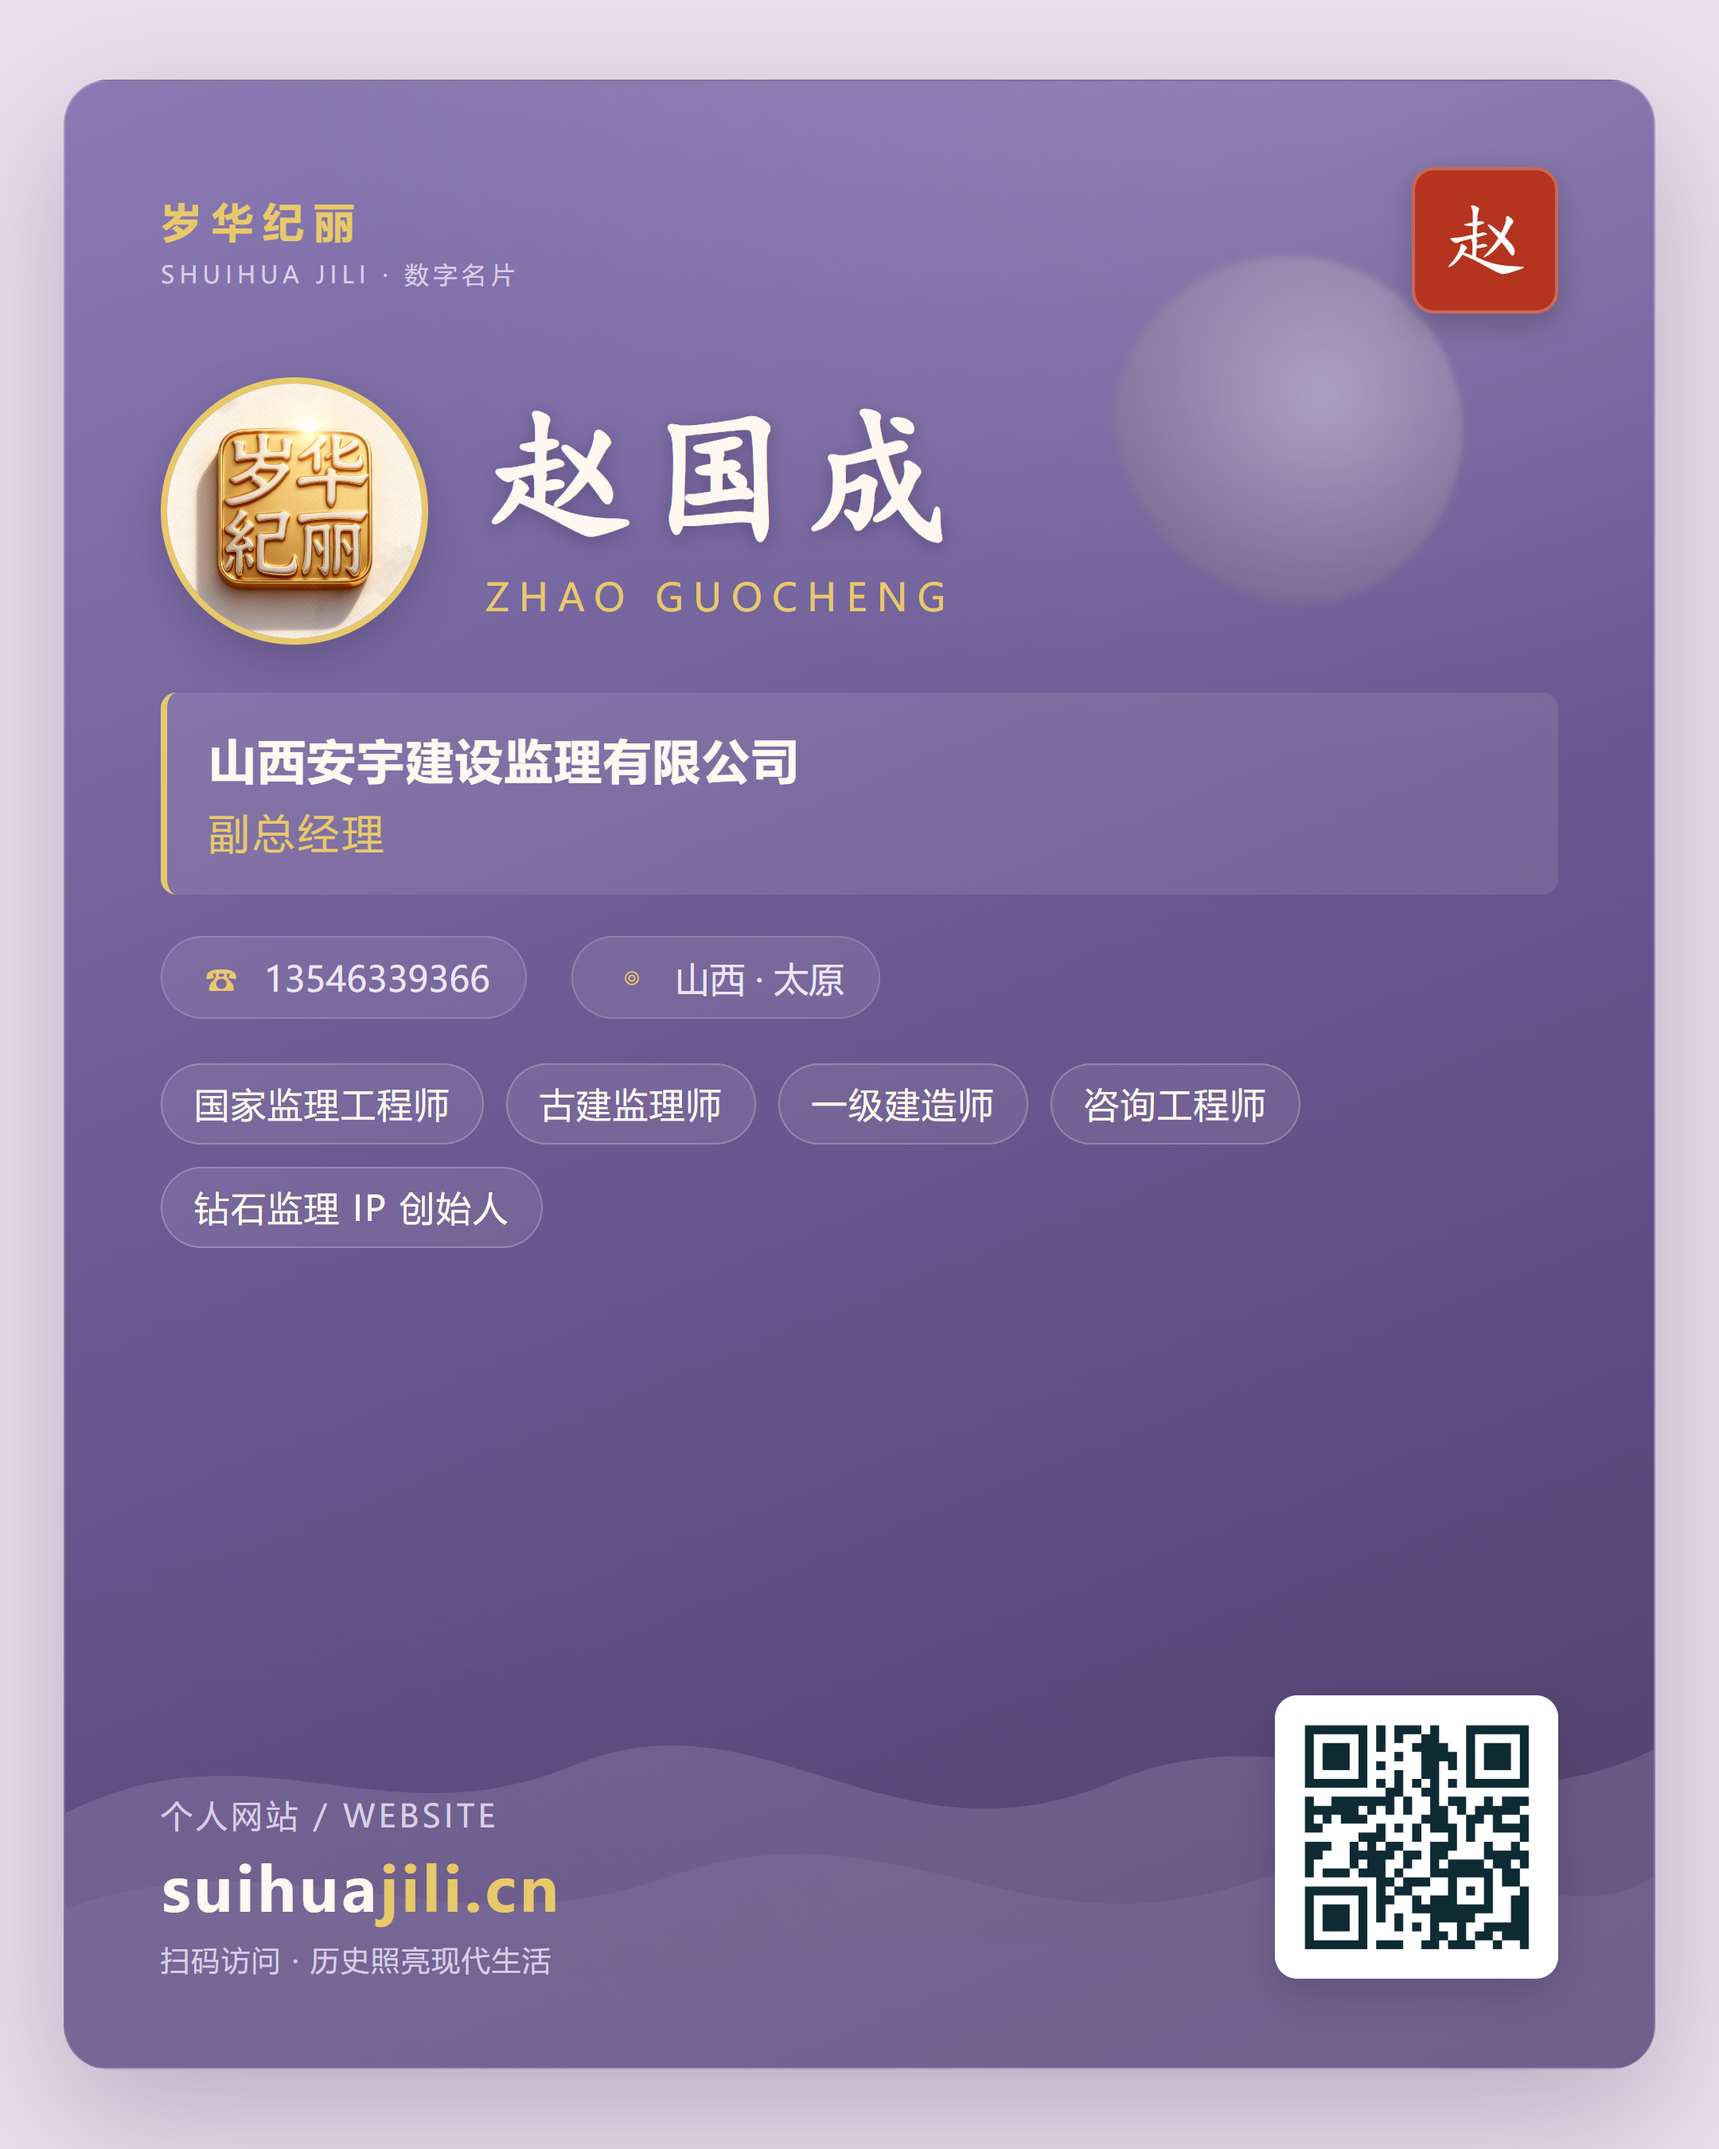
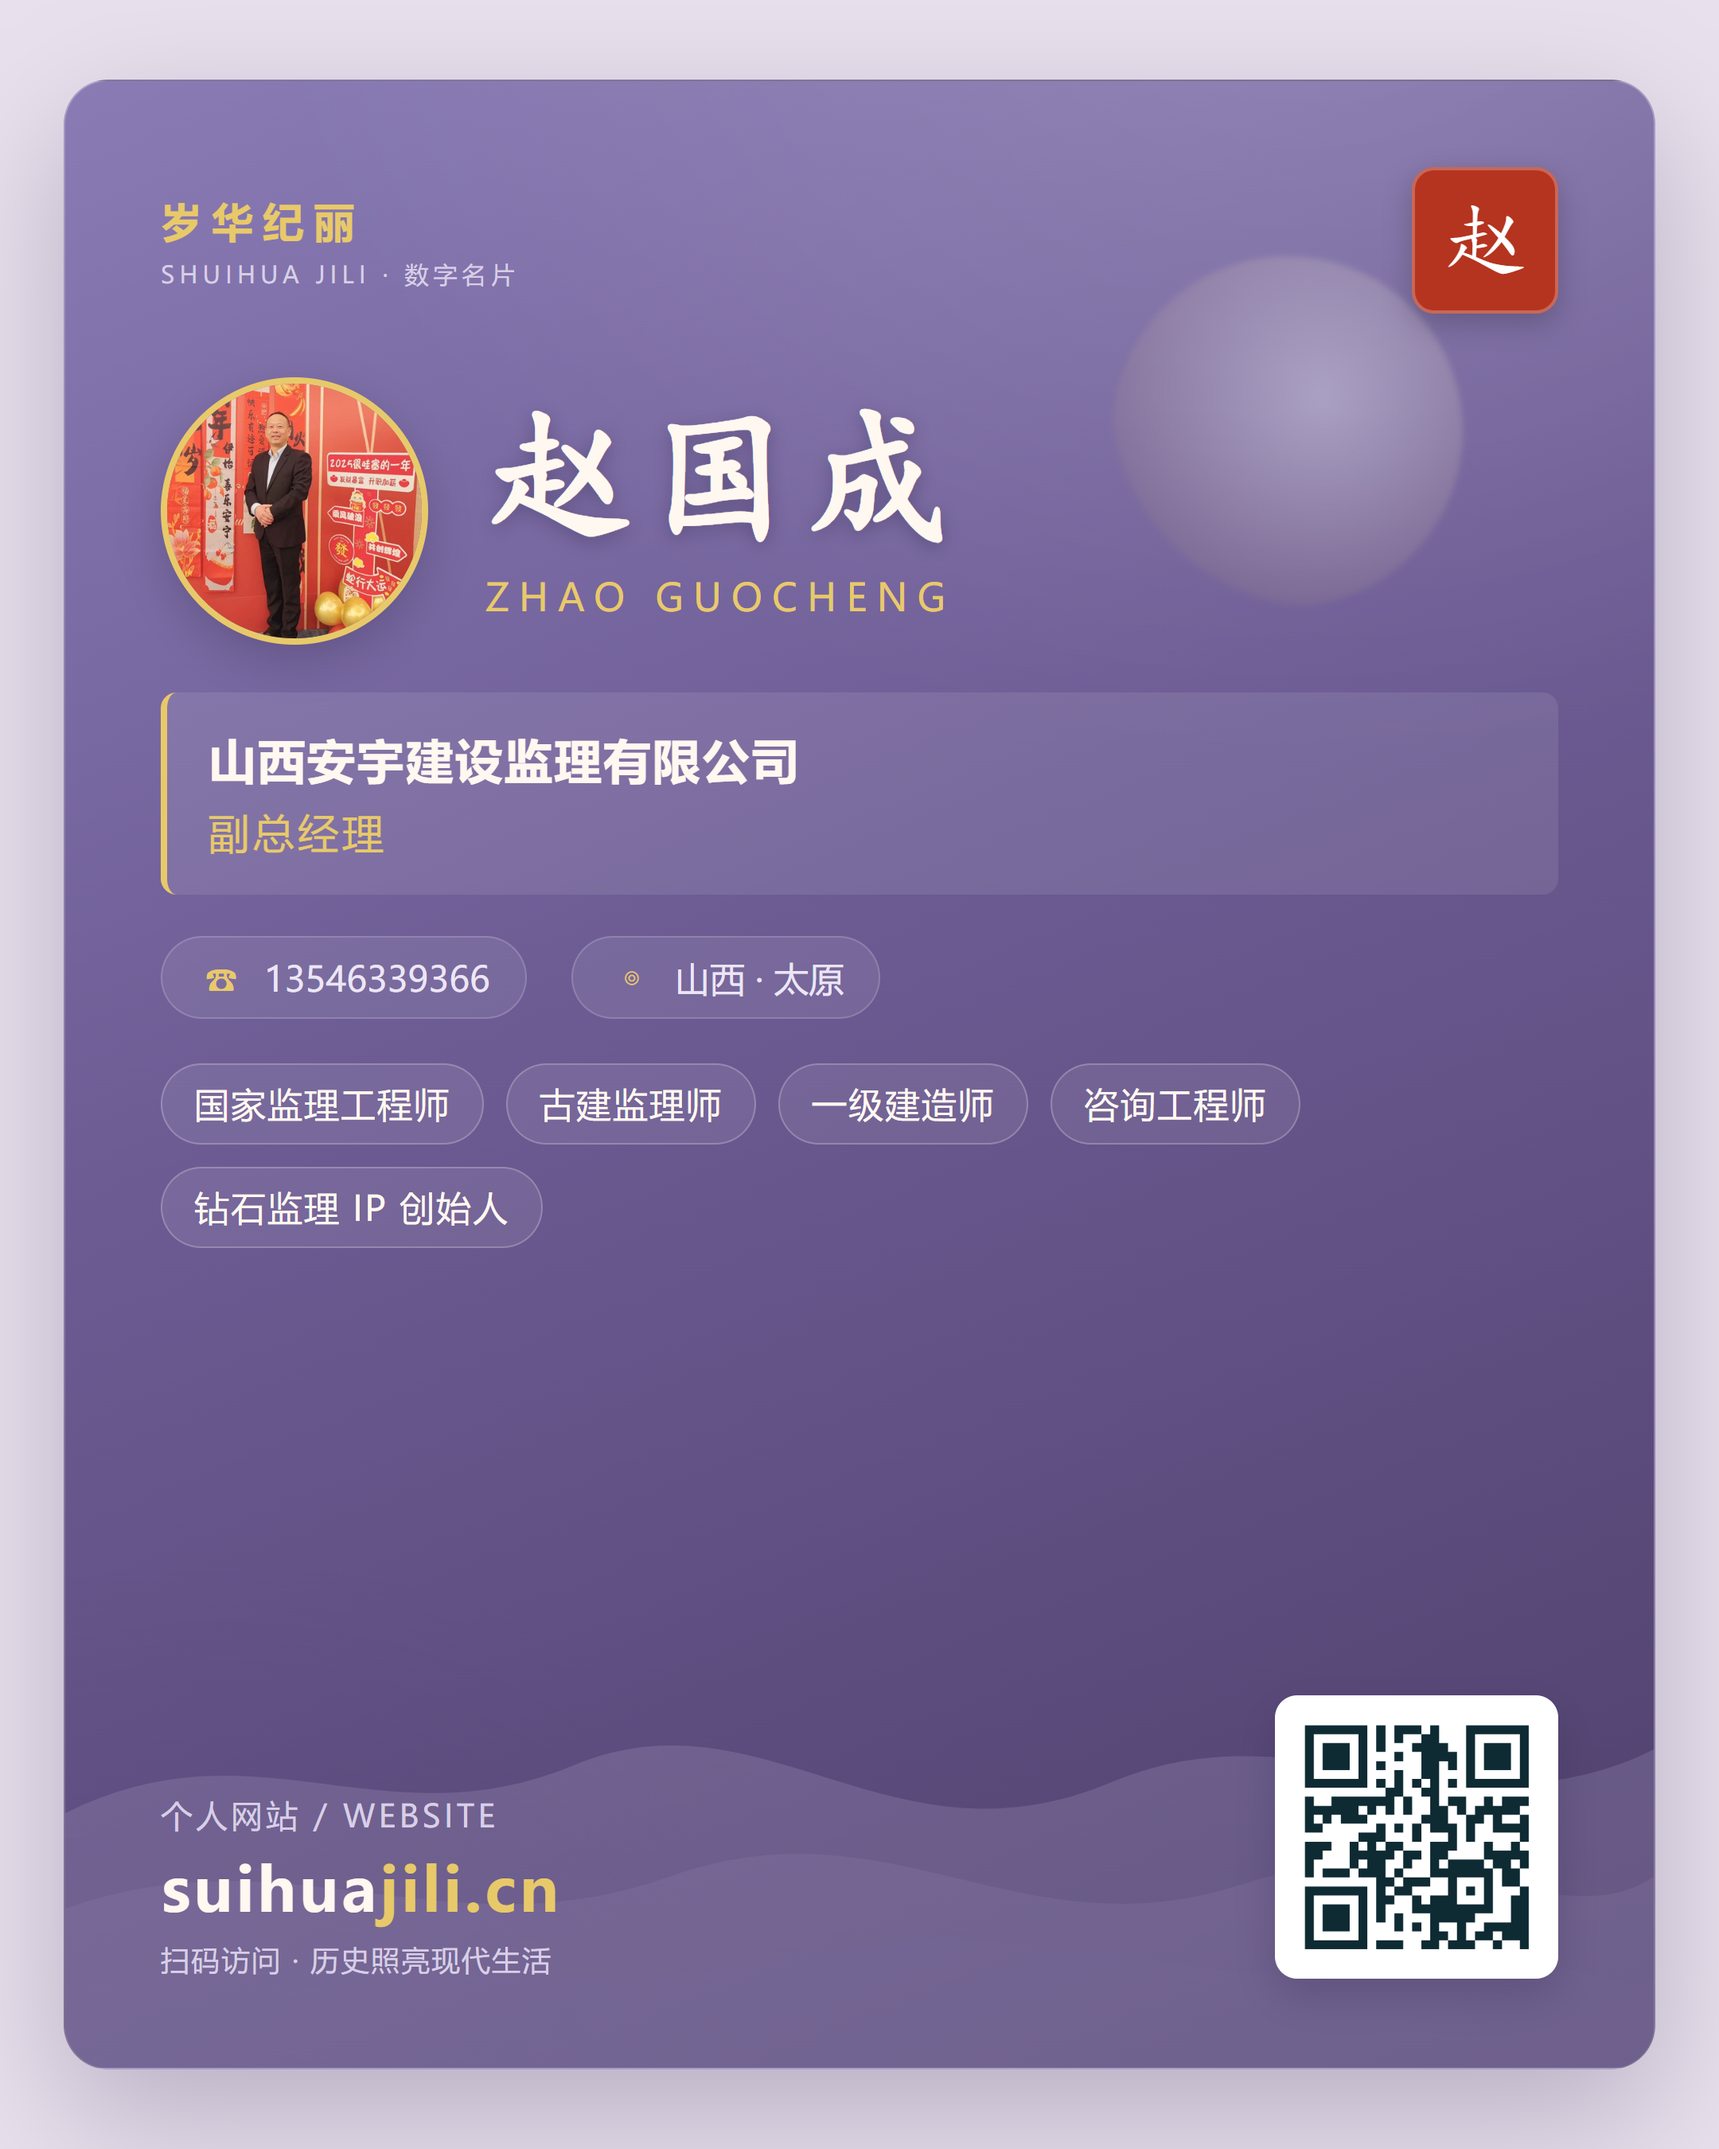
feat(card): 名片头像更换为真人照片

Changed region(s): [[0.0931, 0.1556, 0.2481, 0.3111]]

diff --git a/public/card/index.html b/public/card/index.html
@@ -1,8 +1,8 @@
 <!DOCTYPE html>
-<html lang="zh-CN">
-<head>
-<meta charset="UTF-8">
-<meta name="viewport" content="width=device-width, initial-scale=1.0">
+<html lang="zh-CN" data-page-node-id="ixvrcLoF19jHSei9DtamrJ">
+<head data-page-node-id="9OSJyOtXf8ODDC202bORXC">
+<meta charset="UTF-8" data-page-node-id="JOGMH4qVwJ1dE6bt1rfAkS">
+<meta name="viewport" content="width=device-width, initial-scale=1.0" data-page-node-id="iLsgaAMdP7sFpJ9Mneo0FI">
 <title>赵国成 · 数字名片</title>
 <style>
   * { margin: 0; padding: 0; box-sizing: border-box; }
@@ -134,60 +134,60 @@
   }
 </style>
 </head>
-<body>
-  <div class="card">
-    <div class="moon"></div>
-    <svg class="hills" viewBox="0 0 1000 380" preserveAspectRatio="none">
-      <path d="M0,380 L0,220 C120,160 200,240 320,190 C440,140 520,260 660,200 C780,150 880,240 1000,180 L1000,380 Z" fill="#b8aed4" opacity="0.45"/>
-      <path d="M0,380 L0,280 C140,230 240,310 380,260 C520,210 600,310 740,265 C860,225 940,300 1000,260 L1000,380 Z" fill="#a89bc6" opacity="0.5"/>
-      <path d="M0,380 L0,330 C160,295 300,345 460,310 C620,275 720,345 880,315 C940,305 980,335 1000,325 L1000,380 Z" fill="#9789b8" opacity="0.55"/>
+<body data-page-node-id="xwWfuJNcDBYoqTVySWsnsE">
+  <div class="card" data-page-node-id="wXvFjBtvcvDafV2f6D6sKe">
+    <div class="moon" data-page-node-id="Axvwdjq7obM03YILRBaBcC"></div>
+    <svg class="hills" viewBox="0 0 1000 380" preserveAspectRatio="none" data-page-node-id="a16DrWQCynqhkhWqMEHG8c">
+      <path d="M0,380 L0,220 C120,160 200,240 320,190 C440,140 520,260 660,200 C780,150 880,240 1000,180 L1000,380 Z" fill="#b8aed4" opacity="0.45" data-page-node-id="oEgam0iMKW8JNTIZbElNGF"/>
+      <path d="M0,380 L0,280 C140,230 240,310 380,260 C520,210 600,310 740,265 C860,225 940,300 1000,260 L1000,380 Z" fill="#a89bc6" opacity="0.5" data-page-node-id="62cAP1HhfEKu0HOeLxEqk2"/>
+      <path d="M0,380 L0,330 C160,295 300,345 460,310 C620,275 720,345 880,315 C940,305 980,335 1000,325 L1000,380 Z" fill="#9789b8" opacity="0.55" data-page-node-id="6AFhMG0b13lEEUNbCwzs1P"/>
     </svg>
 
-    <div class="topbar">
-      <div class="brand">岁华纪丽<small>SHUIHUA JILI · 数字名片</small></div>
-      <div class="spacer"></div>
-      <div class="seal">赵</div>
+    <div class="topbar" data-page-node-id="uiohclR1c2uoCzruHMFa3p">
+      <div class="brand" data-page-node-id="L8khogykoxr2iKvAjDWKzl">岁华纪丽<small data-page-node-id="9ye9JxEEf3FKDczbCHPrDH">SHUIHUA JILI · 数字名片</small></div>
+      <div class="spacer" data-page-node-id="ormRNspd476uNC8ijkppUQ"></div>
+      <div class="seal" data-page-node-id="bf9z5S5xAurCMfvTHLIHDW">赵</div>
     </div>
 
-    <div class="identity">
-      <img class="avatar" src="avatar.jpg" alt="赵国成">
-      <div class="namebox">
-        <div class="name">赵国成</div>
-        <div class="pinyin">Zhao Guocheng</div>
+    <div class="identity" data-page-node-id="isOWrge2DCtGR44wqW99rz">
+      <img class="avatar" src="avatar.jpg" alt="赵国成" data-page-node-id="CxxCrEw7upWIAkDzsBBvOF">
+      <div class="namebox" data-page-node-id="4VydmWId24pSi9WNuuUDSA">
+        <div class="name" data-page-node-id="0MugE3X3bFHBRKFlunTLqV">赵国成</div>
+        <div class="pinyin" data-page-node-id="oHq1MyMRBcg4FycFiETrTQ">Zhao Guocheng</div>
       </div>
     </div>
 
-    <div class="role">
-      <div class="company">山西安宇建设监理有限公司</div>
-      <div class="title">副总经理</div>
+    <div class="role" data-page-node-id="99TF1R3YKRbOTVL6Bynw0q">
+      <div class="company" data-page-node-id="dGCUy6NJIAHcZpYa9RfSne">山西安宇建设监理有限公司</div>
+      <div class="title" data-page-node-id="k3C027bwK1MJ5T7YCmuzFd">副总经理</div>
     </div>
 
-    <div class="contact">
-      <div class="contact-item">
-        <div class="icon">☎</div>
-        <div>13546339366</div>
+    <div class="contact" data-page-node-id="qfeTtXDJIIl6nBADsj1Lsf">
+      <div class="contact-item" data-page-node-id="v4qmOkilbi5yhjxU1SDmbr">
+        <div class="icon" data-page-node-id="Y4Z8evgISfGtZYR3TQwek6">☎</div>
+        <div data-page-node-id="XfVLNCqBmYrpH7qr2QV4BH">13546339366</div>
       </div>
-      <div class="contact-item">
-        <div class="icon">◎</div>
-        <div>山西 · 太原</div>
+      <div class="contact-item" data-page-node-id="RVCwxEYpgyyFA5RgBmFyp4">
+        <div class="icon" data-page-node-id="sTzMr0dCRGS6I3qCfFA6zi">◎</div>
+        <div data-page-node-id="nGj3KFSXJNLjFzfxbheMIU">山西 · 太原</div>
       </div>
     </div>
 
-    <div class="creds">
-      <div class="chip">国家监理工程师</div>
-      <div class="chip">古建监理师</div>
-      <div class="chip">一级建造师</div>
-      <div class="chip">咨询工程师</div>
-      <div class="chip">钻石监理 IP 创始人</div>
+    <div class="creds" data-page-node-id="Uc6KCVoe9UPeEdzLLgnOmz">
+      <div class="chip" data-page-node-id="vY9cRDbAYXiEQoVA0omJpa">国家监理工程师</div>
+      <div class="chip" data-page-node-id="eiKOtmDQD8vAXq5JIBfTxx">古建监理师</div>
+      <div class="chip" data-page-node-id="DHe8VubAZnDjYKWpyT5LqE">一级建造师</div>
+      <div class="chip" data-page-node-id="KTldxSbT8ZelrL9RCqlxjK">咨询工程师</div>
+      <div class="chip" data-page-node-id="Ysk9szbgqAOpogJXZ6pcvg">钻石监理 IP 创始人</div>
     </div>
 
-    <div class="foot">
-      <div class="sitebox">
-        <div class="label">个人网站 / WEBSITE</div>
-        <div class="url">suihua<span>jili.cn</span></div>
-        <div class="tip">扫码访问 · 历史照亮现代生活</div>
+    <div class="foot" data-page-node-id="EnFnGK8fkj7SGHEw3wnvDK">
+      <div class="sitebox" data-page-node-id="xdNJA9PdQwyPXR6MOv2Bwo">
+        <div class="label" data-page-node-id="8EpX7xWflIzkd5AGAmKTaY">个人网站 / WEBSITE</div>
+        <div class="url" data-page-node-id="XnIFOfaN4a9UAn0iCZe37h">suihua<span data-page-node-id="lPJ0Fkrdh23Xhjh3qtB8Um">jili.cn</span></div>
+        <div class="tip" data-page-node-id="otYI9uinYIUf1qcei2ZNIB">扫码访问 · 历史照亮现代生活</div>
       </div>
-      <img class="qr" src="qr.png" alt="网站二维码">
+      <img class="qr" src="qr.png" alt="网站二维码" data-page-node-id="jXHmLOl4cgTd4ROyKgozwf">
     </div>
   </div>
 </body>
